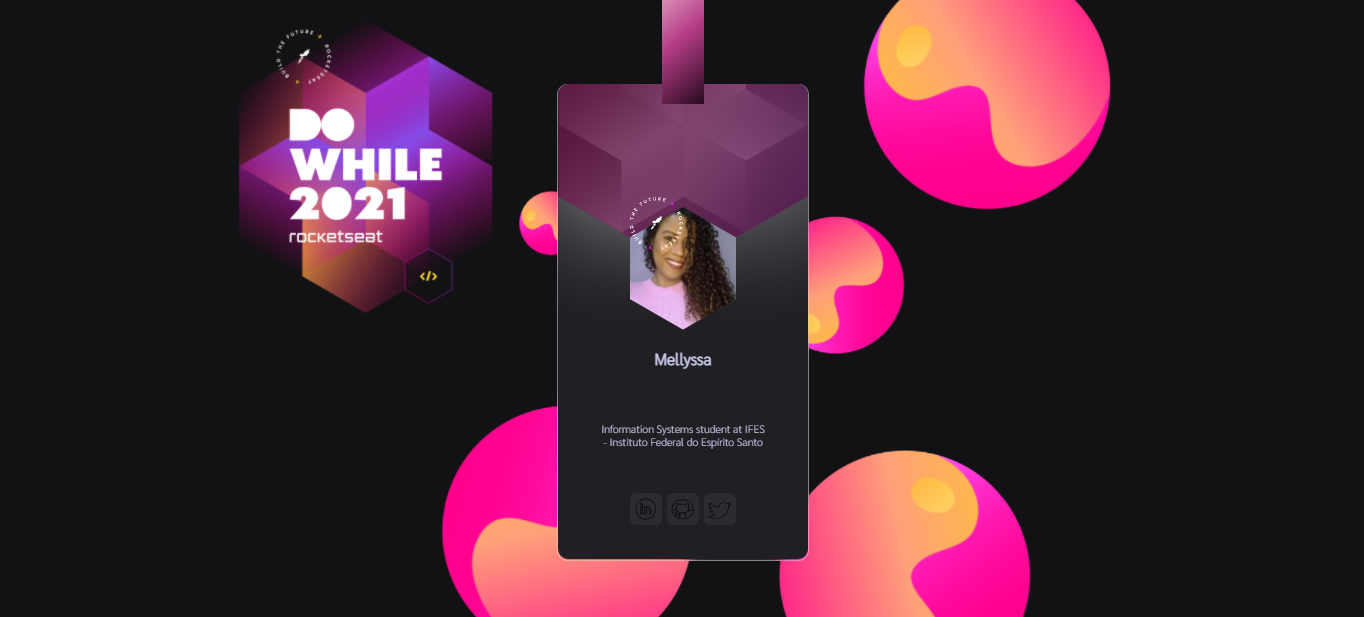
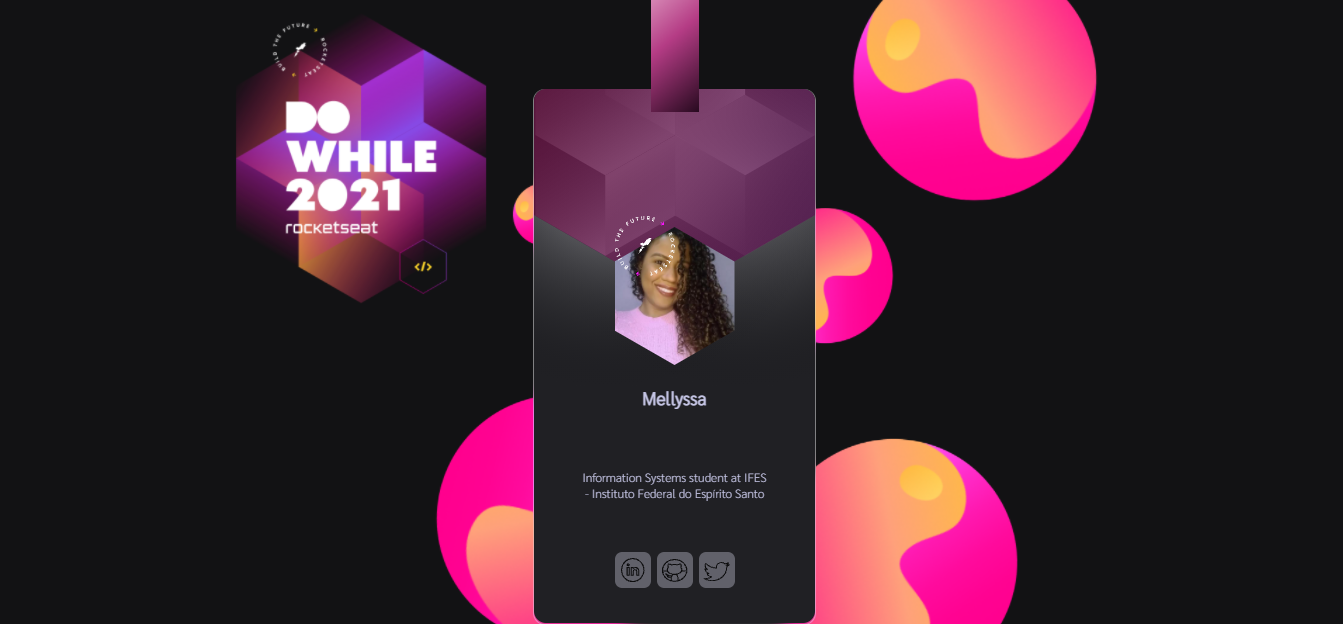
atualização readme e atualização da cor de fundo dos ícones de redes sociais

diff --git a/README.md b/README.md
@@ -15,8 +15,6 @@
 
 ## Projeto
 
-## Projeto
-
 Durante a semana 18 a 24/10, aconteceu a NLW Heat da [Rocketseat](https://www.rocketseat.com.br/), onde desenvolvemos na trilha Origin a versão mobile do crachá para o DoWhile 2021 que ocorrerá nos dias 01 e 02 de dezembro.
 
 O projeto consiste em um crachá virtual que mostra as informações do usuário trazidas via GitHub API, bem como suas redes sociais. Cada participante deveria criar seu próprio crachá e acrescentar funcionalidades e personalizá-lo como desejasse.
